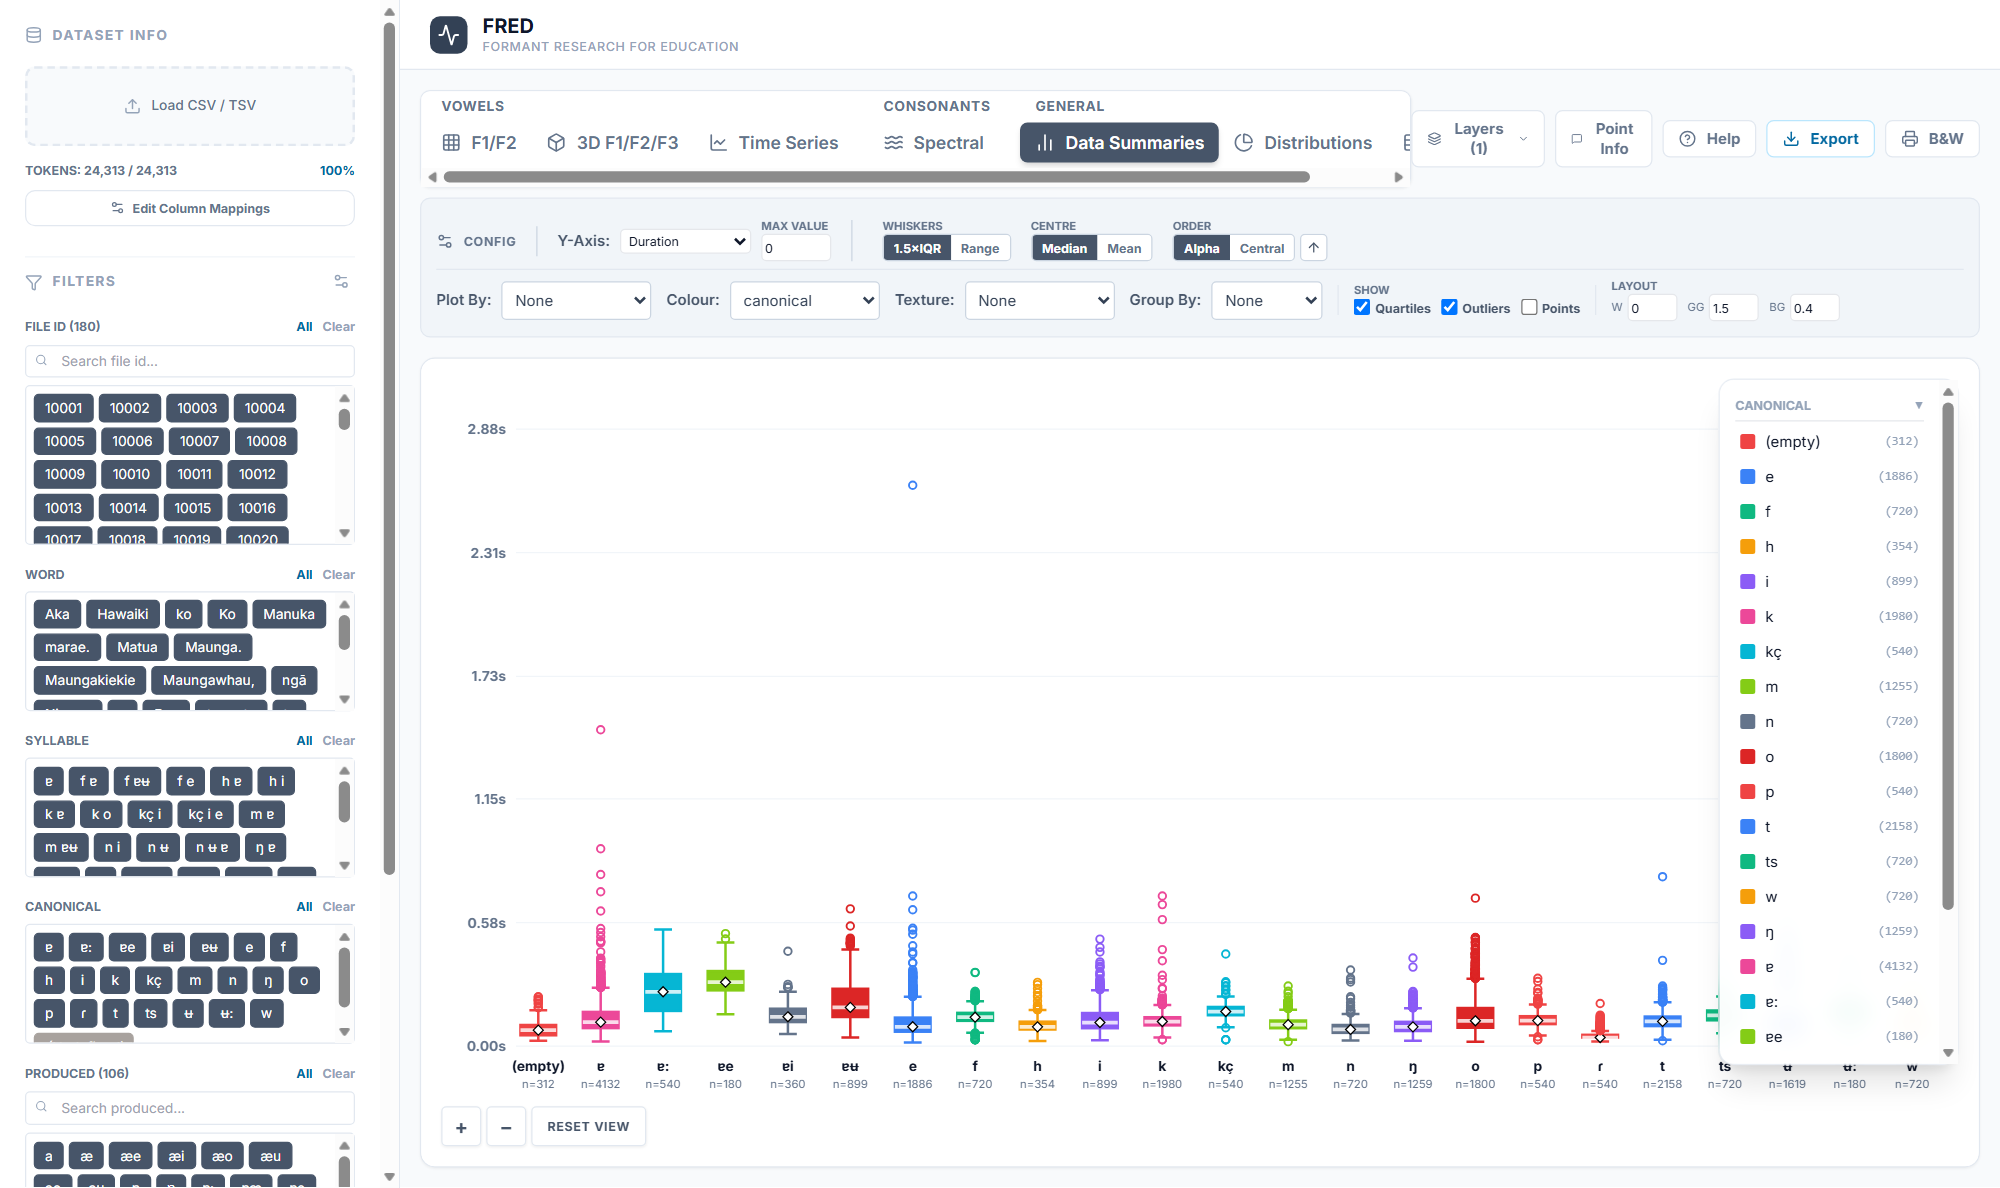
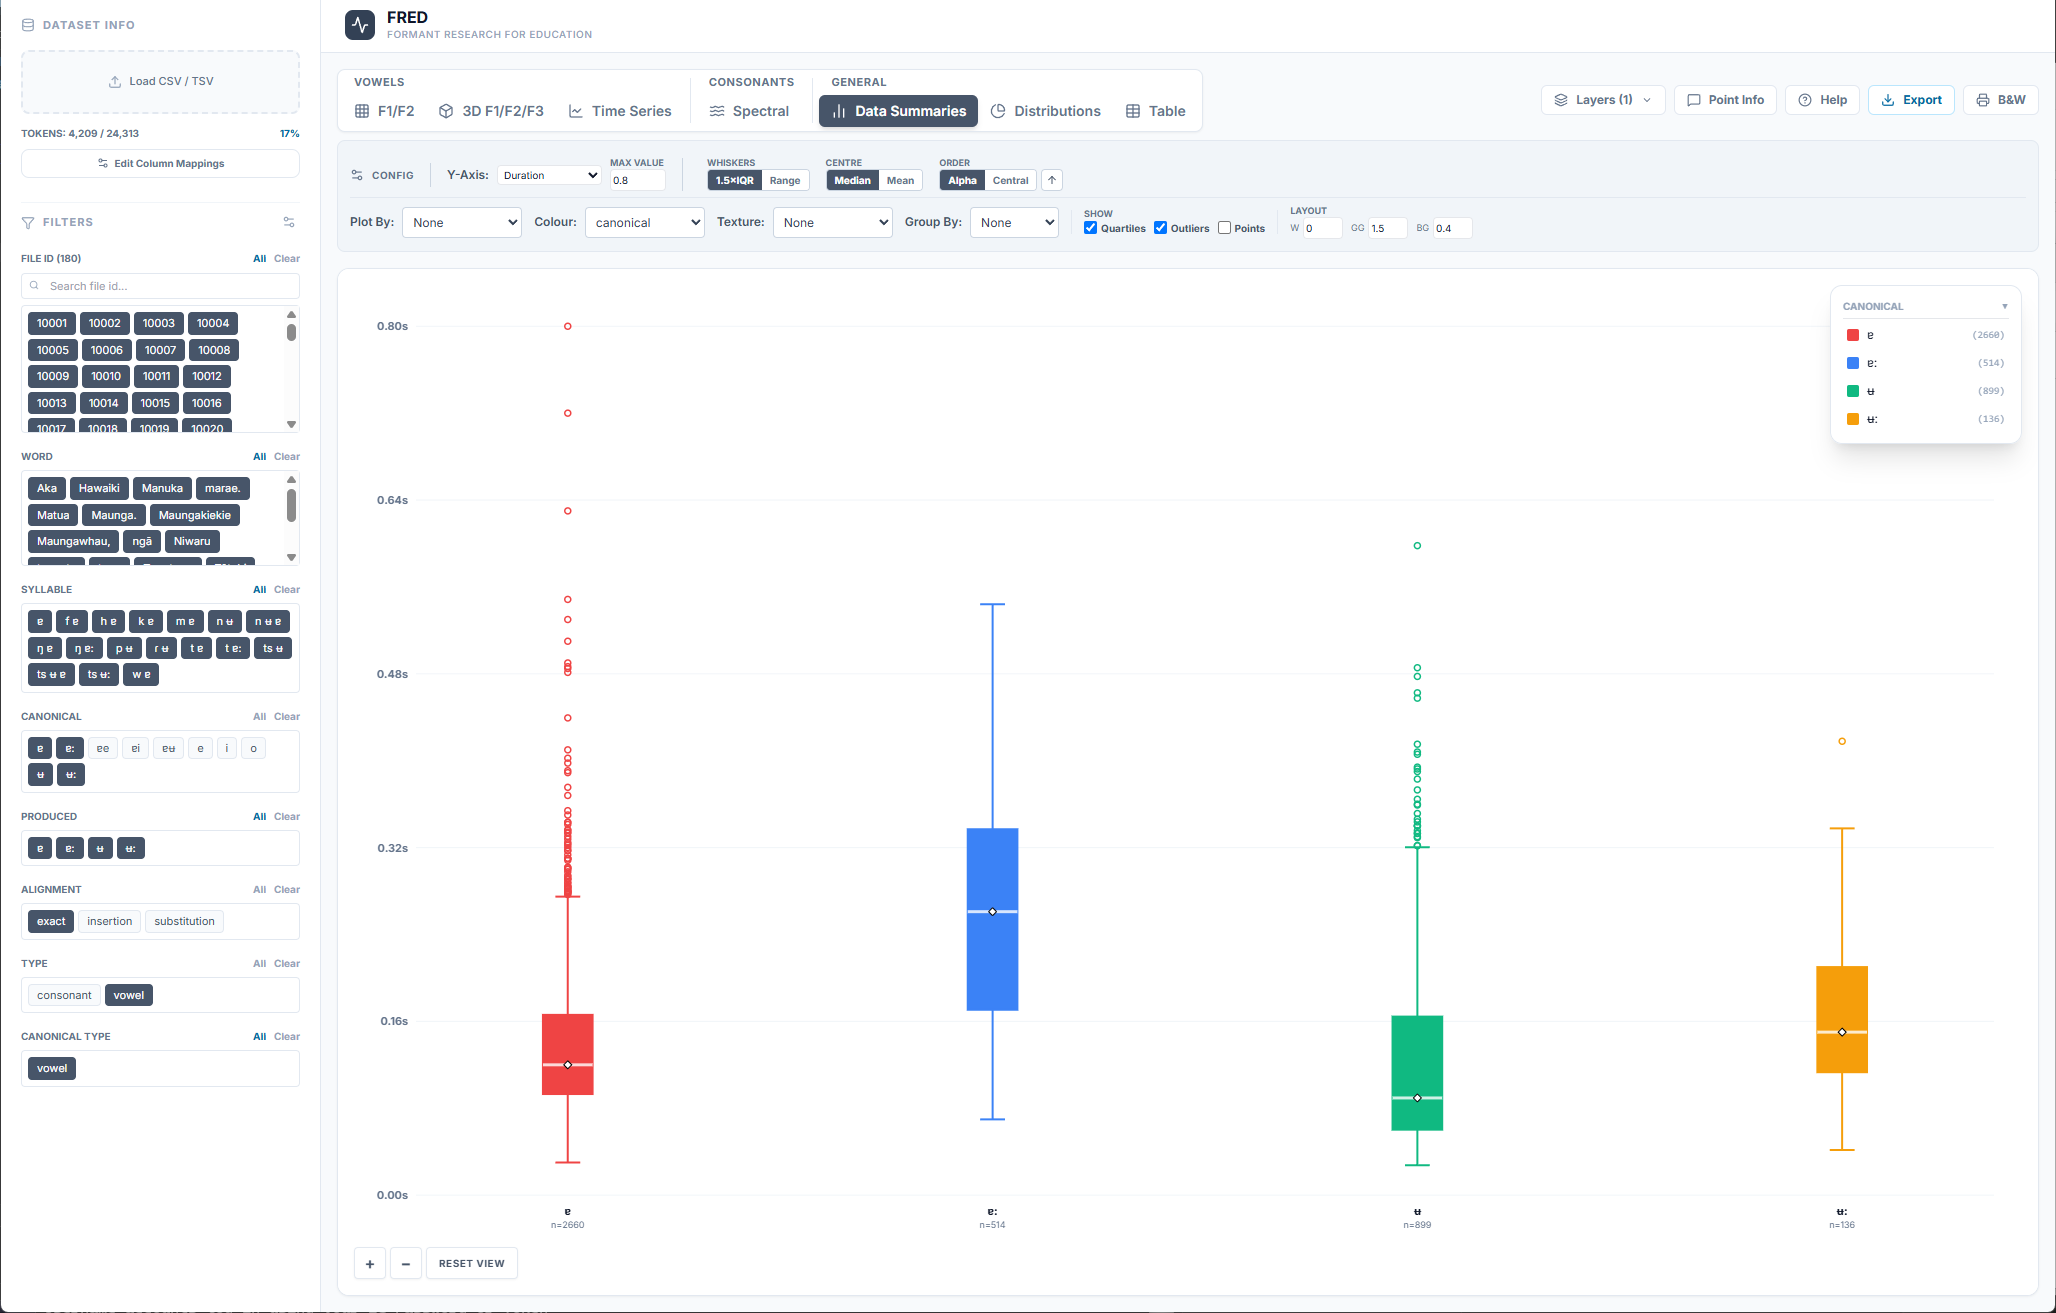
docs: hand-curated screenshots with real speech data
Replace seven generated screenshots with hand-made captures of real
vowel data (F1/F2 ellipses with means and labels, layer panel open,
3D, time series, data summaries, export dialog), and split the
Distributions figure in two: a duration histogram comparing a short
and a long vowel, and faceted per-diphthong counts of syllable
position. Manual text updated to describe both.

The screenshot script now keeps a CURATED list of hand-made images
it refuses to overwrite, and its Distributions generator is removed.

diff --git a/docs/USER_MANUAL.md b/docs/USER_MANUAL.md
@@ -432,20 +432,32 @@ duration, but this plot does.
 
 ### Distributions
 
-- **Counts** — a bar chart of the number of tokens in each category.
-- **Distribution** — a histogram of a numeric field.
+This tab has two modes.
 
-![The Distributions plot](images/distributions.png)
+**Distribution** shows a histogram of a numeric field. Set **Colour** to compare groups on
+one axis. In this example, the durations of a short vowel and a long vowel are overlaid:
 
-In Counts mode, four controls set the chart structure:
+![A histogram of duration for a short vowel and a long vowel](images/distributionsA.png)
+
+The **Overlap** control sets how the groups combine (overlaid, stacked, or side by side),
+and **Bins** sets the number of bars.
+
+**Counts** shows the number of tokens in each category. Four controls set the chart
+structure:
 
 - **Plot By** — one small chart for each value of a field.
 - **Group By** — clusters of bars inside one chart.
 - **Colour** and **Texture By** — the bars in each cluster.
 
+In this example, each diphthong has its own chart, and the bars show the syllable
+position as a percentage:
+
+![Counts of syllable position, one chart for each diphthong](images/distributionsB.png)
+
 The **Layout** boxes set the geometry: **Bar width** (0 = automatic), **Group gap**
 (the space between the Group By clusters — it operates only when Group By is set), and
-**Bar gap** (the space between bars inside a cluster).
+**Bar gap** (the space between bars inside a cluster). The **Values** control changes
+between counts and percentages.
 
 ### Table
 
